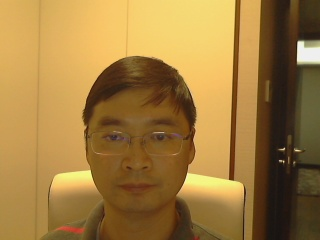
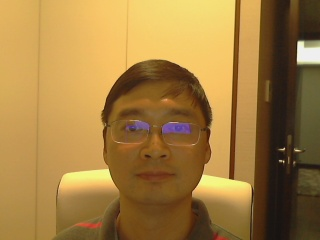
Add files via upload

Changed region(s): [[0.125, 0.2333, 0.8125, 1.0], [0.5, 0.6417, 0.5312, 0.6708], [0.4375, 0.6417, 0.4688, 0.6708]]

diff --git a/libfacedetection/facecam_shot.py b/libfacedetection/facecam_shot.py
@@ -25,7 +25,7 @@ def CatchPICFromVideo(window_name, camera_idx):
         img_s = cv2.resize(img, (0, 0), fx = ratio, fy = ratio)
         cv2.imwrite("cap_160x120.jpg", img_s)
 
-        ratio = 1/8
+        ratio = 1/5
         img_s = cv2.resize(img, (0, 0), fx = ratio, fy = ratio)
         cv2.imwrite("cap_128x96.jpg", img_s)
 
